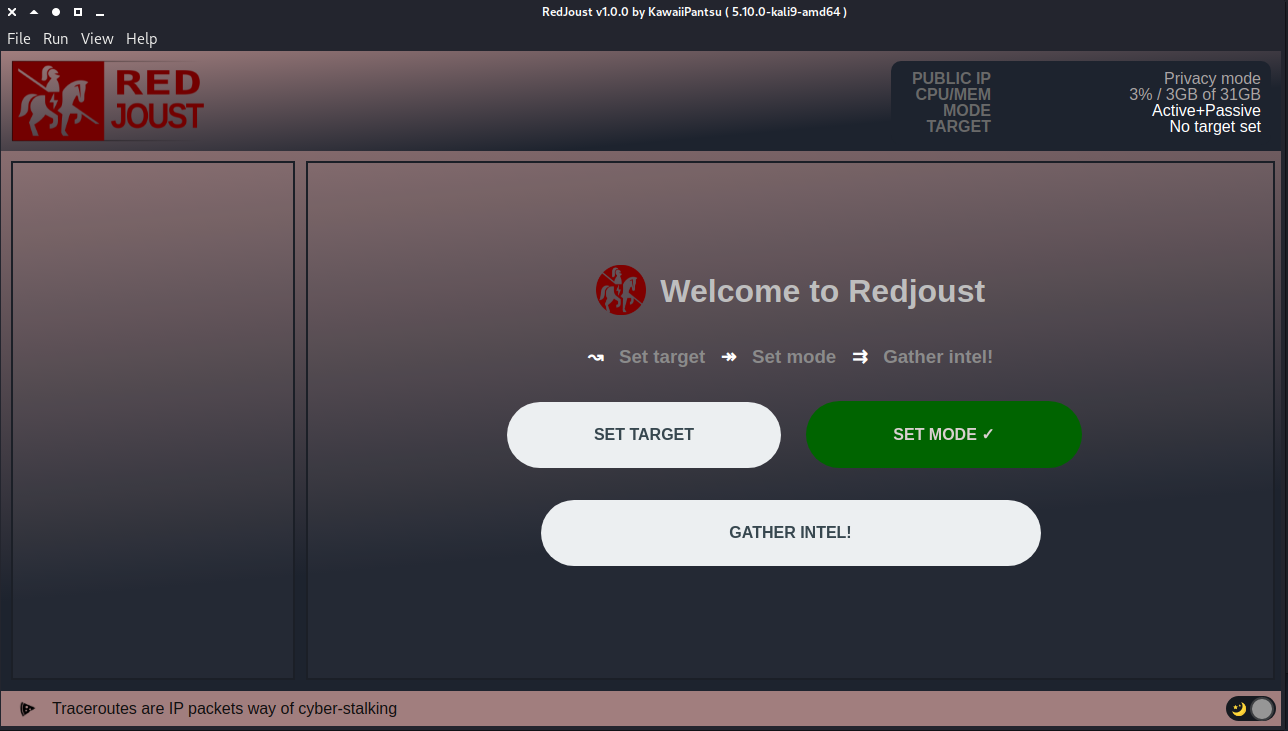
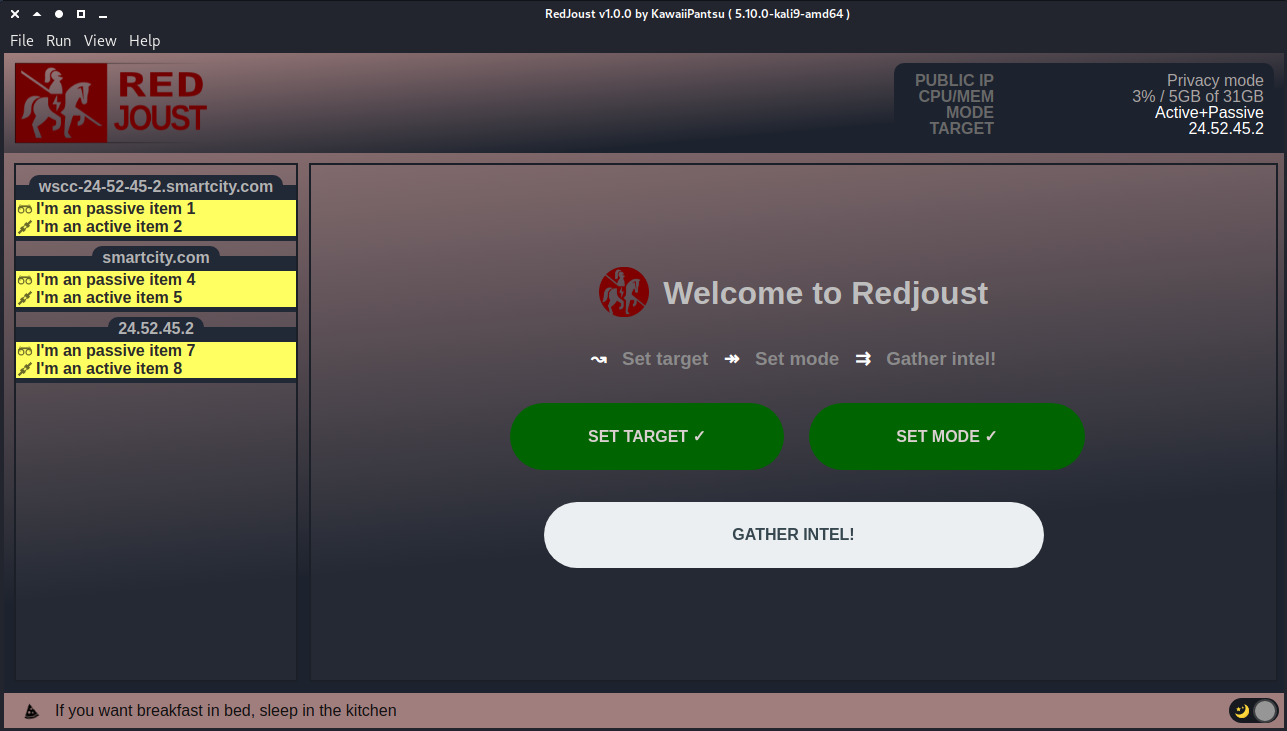
New app screenshot

diff --git a/redjoust.html b/redjoust.html
@@ -68,21 +68,21 @@
             <div class="placeholdertree" id="tree">
               <fieldset id="haveHostname" class="menusegment">
                 <legend id="targetHostname" class="menusegmentinfo">???</legend>
-                <div id="doDNShost1" data-title="DNS information 1" data-page="dodnspage" data-function="dnsMain" class="boxborder menuitem item--click item--passive status--disabled">DNS Information 1</div>
-                <div id="doDNShost2" data-title="DNS information 2" data-page="dodnspage" data-function="dnsMain" class="boxborder menuitem item--click item--active status--disabled">DNS Information 2</div>
-                <div id="doDNShost3" data-title="DNS information 3" data-page="dodnspage" data-function="dnsMain" class="boxborder menuitem item--click item--redteam status--disabled">DNS Information 3</div>
+                <div id="doDNShost1" data-title="DNS information 1" data-page="dodnspage" data-function="dnsMain" class="boxborder menuitem item--click item--passive status--disabled">I'm an passive item 1</div>
+                <div id="doDNShost2" data-title="DNS information 2" data-page="dodnspage" data-function="dnsMain" class="boxborder menuitem item--click item--active status--disabled">I'm an active item 2</div>
+                <div id="doDNShost3" data-title="DNS information 3" data-page="dodnspage" data-function="dnsMain" class="boxborder menuitem item--click item--redteam status--disabled">I'm an redteam item 3</div>
               </fieldset>
               <fieldset id="haveDomainname" class="menusegment">
                 <legend id="targetDomainname" class="menusegmentinfo">???</legend>
-                <div id="doDNSdom1" data-title="DNS information 1" data-page="dodnspage" data-function="dnsMain" class="boxborder menuitem item--click item--passive status--disabled">DNS Information 1</div>
-                <div id="doDNSdom2" data-title="DNS information 2" data-page="dodnspage" data-function="dnsMain" class="boxborder menuitem item--click item--active status--disabled">DNS Information 2</div>
-                <div id="doDNSdom3" data-title="DNS information 3" data-page="dodnspage" data-function="dnsMain" class="boxborder menuitem item--click item--redteam status--disabled">DNS Information 3</div>
+                <div id="doDNSdom1" data-title="DNS information 1" data-page="dodnspage" data-function="dnsMain" class="boxborder menuitem item--click item--passive status--disabled">I'm an passive item 4</div>
+                <div id="doDNSdom2" data-title="DNS information 2" data-page="dodnspage" data-function="dnsMain" class="boxborder menuitem item--click item--active status--disabled">I'm an active item 5</div>
+                <div id="doDNSdom3" data-title="DNS information 3" data-page="dodnspage" data-function="dnsMain" class="boxborder menuitem item--click item--redteam status--disabled">I'm an redteam item 6</div>
               </fieldset>
               <fieldset id="haveIP" class="menusegment">
                 <legend id="targetIP" class="menusegmentinfo">???</legend>
-                <div id="doDNSip1" data-title="DNS information 1" data-page="dodnspage" data-function="dnsMain" class="boxborder menuitem item--click item--passive status--disabled">DNS Information 1</div>
-                <div id="doDNSip2" data-title="DNS information 2" data-page="dodnspage" data-function="dnsMain" class="boxborder menuitem item--click item--active status--disabled">DNS Information 2</div>
-                <div id="doDNSip3" data-title="DNS information 3" data-page="dodnspage" data-function="dnsMain" class="boxborder menuitem item--click item--redteam status--disabled">DNS Information 3</div>
+                <div id="doDNSip1" data-title="DNS information 1" data-page="dodnspage" data-function="dnsMain" class="boxborder menuitem item--click item--passive status--disabled">I'm an passive item 7</div>
+                <div id="doDNSip2" data-title="DNS information 2" data-page="dodnspage" data-function="dnsMain" class="boxborder menuitem item--click item--active status--disabled">I'm an active item 8</div>
+                <div id="doDNSip3" data-title="DNS information 3" data-page="dodnspage" data-function="dnsMain" class="boxborder menuitem item--click item--redteam status--disabled">I'm an redteam item 9</div>
               </fieldset>
               <fieldset id="haveExternal" class="menusegment">
                 <legend id="targetExternal" class="menusegmentinfo">External tools</legend>
